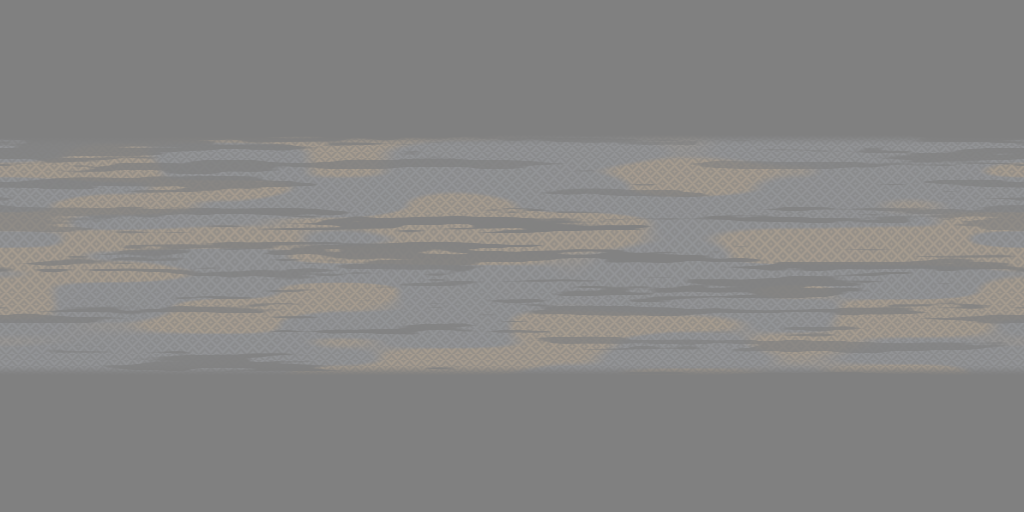
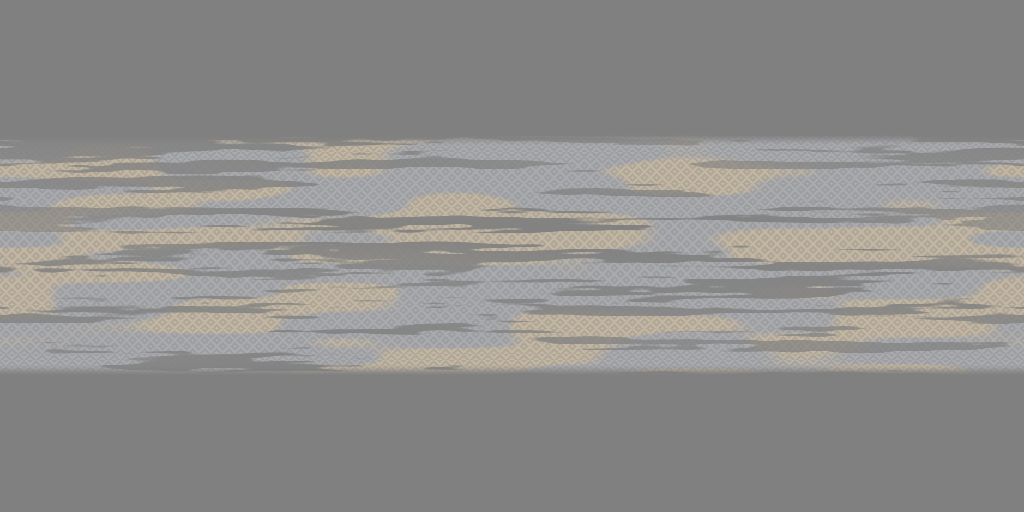
Tyre look: three steps via the glowMap at spawn (new, worn, belts), set up by the tyres module's jbeam hook; paler belts

Changed region(s): [[0.0, 0.2812, 1.0, 0.7188]]

diff --git a/tools/make_tyre_stage_materials.py b/tools/make_tyre_stage_materials.py
@@ -1,7 +1,7 @@
 """Tyre wear stage materials: python tools/make_tyre_stage_materials.py <path to BeamNG content/vehicles/common.zip>
-For the tyre materials in FAMILY it writes five worn variants, csfx_<name>_s1 .. _s5 (a material file under vehicles/common, which the game loads with the first car like its own tyre materials: a switch
+For the tyre materials in FAMILY it writes two worn variants, csfx_<name>_worn and csfx_<name>_belts (a material file under vehicles/common, which the game loads with the first car like its own tyre materials: a switch
 target that is not in the car's spawn set renders flat black) and the list of the original names for the car side (mod/lua/common/csfx_tyrelook_names.lua). A variant is the car's own stage 0 (its textures
-are referenced by path, none are copied) with the tread normal faded and the full-atlas detail overlays of make_tyre_stage_textures.py laid over it. s1 slight .. s4 bald, s5 the belts (the rules' stage numbers).
+are referenced by path, none are copied) with the tread normal faded and the full-atlas detail overlays of make_tyre_stage_textures.py laid over it. worn = the bald look, belts = the cords showing.
 """
 import json, sys, uuid, zipfile, os
 
@@ -12,14 +12,12 @@ ART = '/art/surfacefx/tyres/'
 # game have other atlases (checked by eye on a contact sheet; some are radial) and keep their normal look.
 FAMILY = ('tire', 'tire_01a')
 WEAR, WEAR_R, CORD, CORD_N = ART + 'tyre_wear_c.data.png', ART + 'tyre_wear_r.data.png', ART + 'tyre_cord_c.data.png', ART + 'tyre_cord_n.normal.png'
-# stage -> (strength of the car's own tread normal, colour detail map, its strength, roughness detail strength, detail normal map, its strength)
-# the wear is carried by the flattened tread normal and the sheen, the colour only lifts a little; the belts get the weave colour and a strong weave normal
+# state -> (strength of the car's own tread normal, colour detail map, its strength, roughness detail strength, detail normal map, its strength)
+# Only two states exist, because the engine accepts a switch target only if it was made part of the car at spawn (carSurfaceFx_tyres.onJbeamLoadingPhase2 puts them in the glowMap: on = worn,
+# on_intense = belts). worn: the flattened tread and sheen carry it, the colour only lifts a little; belts: pale weave colour and a strong weave normal.
 STAGES = {
-    1: (0.9, WEAR, 0.4, 0.15, None, 0),
-    2: (0.65, WEAR, 0.8, 0.3, None, 0),
-    3: (0.4, WEAR, 1.2, 0.5, None, 0),
-    4: (0.12, WEAR, 1.8, 0.7, None, 0),
-    5: (0.05, CORD, 1.0, 0.0, CORD_N, 1.0),
+    'worn': (0.1, WEAR, 2.0, 0.7, None, 0),
+    'belts': (0.05, CORD, 1.0, 0.0, CORD_N, 1.0),
 }
 
 z = zipfile.ZipFile(sys.argv[1])
@@ -44,15 +42,15 @@ for name in FAMILY:
             s['detailNormalMapStrength'] = nstr
         s['detailScale'] = [1, 1]
         v = {kk: vv for kk, vv in m.items() if kk not in ('Stages', 'name', 'mapTo', 'persistentId')}
-        vn = 'csfx_%s_s%d' % (name, k)
+        vn = 'csfx_%s_%s' % (name, k)
         v.update(name=vn, mapTo=vn, persistentId=str(uuid.uuid5(uuid.NAMESPACE_URL, vn)), Stages=[s, {}, {}, {}])
         out[vn] = v
 os.makedirs(os.path.join(OUT, 'vehicles/common/carSurfaceFx'), exist_ok=True)
 with open(os.path.join(OUT, 'vehicles/common/carSurfaceFx/stages.materials.json'), 'w') as f:
     json.dump(out, f, indent=1)
-names = sorted({k.rsplit('_s', 1)[0][5:] for k in out if k[-3:-1] == '_s'})
+names = sorted({k.rsplit('_', 1)[0][5:] for k in out if k.endswith(('_worn', '_belts'))})
 with open(os.path.join(OUT, 'lua/common/csfx_tyrelook_names.lua'), 'w') as f:
-    f.write('-- generated by tools/make_tyre_stage_materials.py: the game\'s tyre materials that have csfx_<name>_s1..s5 variants\nreturn {\n')
+    f.write('-- generated by tools/make_tyre_stage_materials.py: the game\'s tyre materials that have csfx_<name>_worn and _belts variants\nreturn {\n')
     for n in names:
         f.write(" '%s',\n" % n)
     f.write('}\n')

diff --git a/tools/make_tyre_stage_textures.py b/tools/make_tyre_stage_textures.py
@@ -65,13 +65,13 @@ wv = (U * 170 - V * 85) % 1.0
 over = (np.sin(2 * np.pi * (U * 85)) * np.sin(2 * np.pi * (V * 42)) > 0)
 weave = np.where(over, 0.35 + 0.65 * np.sin(np.pi * wu) ** 2, 0.35 + 0.65 * np.sin(np.pi * wv) ** 2)
 streaks = noise(5, 56, 5) * 0.55 + noise(14, 150, 6) * 0.3 + noise(40, 220, 8) * 0.15       # ragged: long in U
-remnant = smooth(streaks, 0.56, 0.62) * (0.6 + 0.4 * noise(3, 9, 9))
+remnant = smooth(streaks, 0.54, 0.6) * (0.6 + 0.4 * noise(3, 9, 9))
 cordmask = inband * (1 - remnant)
 zone = smooth(noise(9, 30, 10), 0.45, 0.58)                                                    # 1 = textile, 0 = steel wire
-steel = np.array([0.15, 0.16, 0.18])
-tan = np.array([0.30, 0.22, 0.12])
+steel = np.array([0.34, 0.35, 0.38])
+tan = np.array([0.55, 0.45, 0.28])
 tone = steel[None, None, :] * (1 - zone[..., None]) + tan[None, None, :] * zone[..., None]
-cord_delta = tone * (0.3 + 0.7 * weave)[..., None] * cordmask[..., None]
+cord_delta = tone * (0.45 + 0.55 * weave)[..., None] * cordmask[..., None]
 cord_delta += np.array([0.012, 0.012, 0.012])[None, None, :] * (inband * remnant)[..., None]      # the torn rubber stays dark
 save((0.5 + 0.5 * cord_delta).astype(np.float32), 'tyre_cord_c.data.png')
 

diff --git a/tools/probes/README.md b/tools/probes/README.md
@@ -45,7 +45,7 @@ Thresholds in `tyrerules.lua`: smoke from 150 C (full at 250), ignition when the
 ## Tyre wear look: game-side diagnosis (tools/probes/tyrelook_ge.lua)
 
 Run in GE (`run_lua`), not in the car: send the whole file as the code (it returns `D`), keep `D` in a global yourself (`CSFXD = ...`), then call `return CSFXD.list()` etc. A car is parked, camera on one wheel.
-1. `CSFXD.list()`: meshes (sorted, numbered), whether `csfx_tire_01a_s1/s5` exist (after the tyres module is on, or `CSFXD.load()`), their mapTo and detail map.
-2. Control: `CSFXD.try(1, 'tire_01a_old')`, screenshot, `CSFXD.reset(1)`. Then `CSFXD.try(1, 'csfx_tire_01a_s5')`, screenshot, `CSFXD.reset(1)`. Then `CSFXD.reload('csfx_tire_01a_s5')` and the same try again, screenshot.
+1. `CSFXD.list()`: meshes (sorted, numbered), whether `csfx_tire_01a_worn/s5` exist (after the tyres module is on, or `CSFXD.load()`), their mapTo and detail map.
+2. Control: `CSFXD.try(1, 'tire_01a_old')`, screenshot, `CSFXD.reset(1)`. Then `CSFXD.try(1, 'csfx_tire_01a_belts')`, screenshot, `CSFXD.reset(1)`. Then `CSFXD.reload('csfx_tire_01a_belts')` and the same try again, screenshot.
 3. A loud material the car already has: take one name from `list()` ("car material ..."), `CSFXD.try(1, '<that name>')`: the tyre must visibly change (it proves the switch reaches the screen; if the tyre stays, the mesh numbering or camera is wrong).
 Report the text of every call and for each screenshot which tyre (driver's-seat left/right, front/rear) changed.
